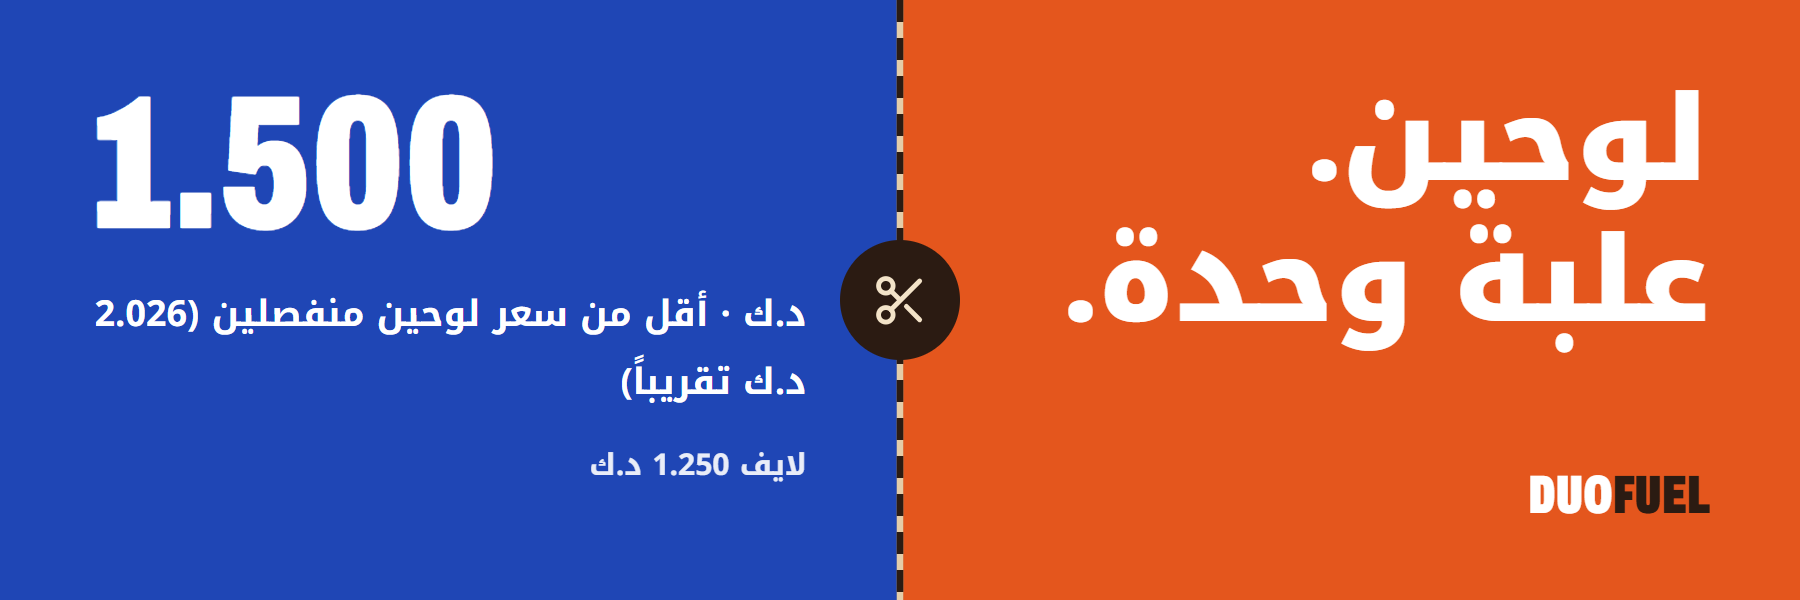
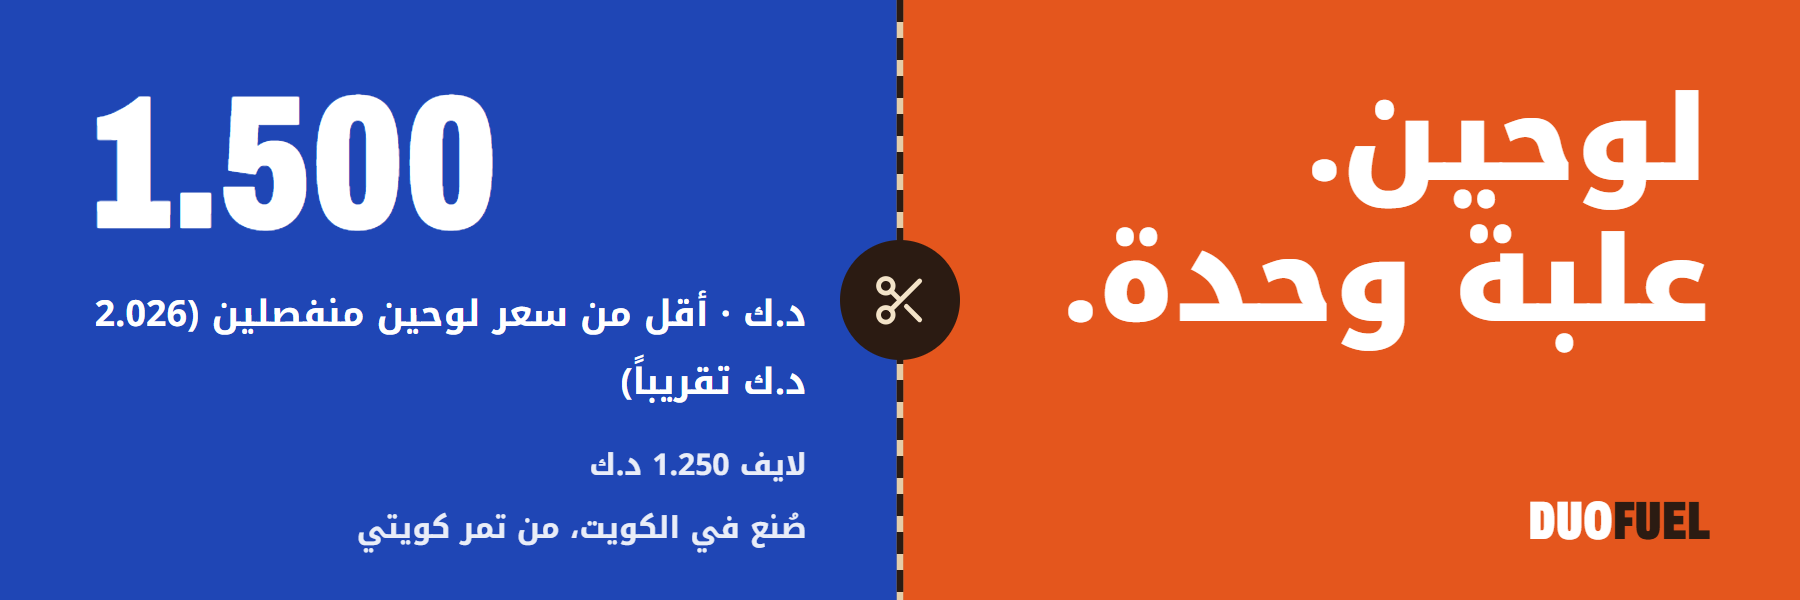
DUOFUEL concept: Made in Kuwait mark, FAQ and campaign updates

Changed region(s): [[0.84, 0.78, 0.9644, 0.9], [0.1867, 0.84, 0.4667, 0.93]]

diff --git a/work/duofuel/index.html b/work/duofuel/index.html
@@ -121,6 +121,7 @@
         </div>
 
         <div class="hero-foot">
+          <p class="made-kw"><span class="kw-flag" aria-hidden="true"><i></i><i></i><i></i></span><span data-i18n="made.kw">Made in Kuwait, with Kuwaiti dates</span></p>
           <p class="hero-lede" data-i18n="hero.lede">One wrapper, two sealed bars. Eat the orange one before and keep the blue one for after.</p>
           <div class="hero-actions">
             <a class="btn btn-ink" href="#order"><span class="v-gym" data-i18n="cta.orderGym">Order Gym · KWD 1.500</span><span class="v-life" data-i18n="cta.orderLife">Order Life · KWD 1.250</span></a>
@@ -246,6 +247,7 @@
           <ul class="promises">
             <li><svg class="icon" aria-hidden="true"><use href="#i-leaf"/></svg><div><h3 data-i18n="dates.p1">Rescued dates</h3><p data-i18n="dates.p1t">We report the kilograms of surplus dates used per 1,000 packs.</p></div></li>
             <li><svg class="icon" aria-hidden="true"><use href="#i-scale"/></svg><div><h3 data-i18n="dates.p2">One wrapper, no box</h3><p data-i18n="dates.p2t">We report the grams of packaging per pack, compared with two single bars.</p></div></li>
+            <li><svg class="icon" aria-hidden="true"><use href="#i-store"/></svg><div><h3 data-i18n="dates.p4">Made in Kuwait</h3><p data-i18n="dates.p4t">Mixed, baked and packed by a licensed food maker in Kuwait. The dates are Kuwaiti; whey and cocoa are imported, so we never say “100% Kuwaiti”.</p></div></li>
             <li><svg class="icon" aria-hidden="true"><use href="#i-qr"/></svg><div><h3 data-i18n="dates.p3">Proof on every pack</h3><p data-i18n="dates.p3t">The QR code shows the batch, where the dates came from and the packaging weight.</p></div></li>
           </ul>
           <p class="facts-strip"><span><strong>102,213 t</strong> <span data-i18n="dates.f1">dates grown in Kuwait in 2024</span></span><span><strong>98.6 kg</strong> <span data-i18n="dates.f2">household food waste per person a year in Kuwait</span></span></p>
@@ -367,6 +369,7 @@
           <details><summary data-i18n="faq.q3">Does creatine work better after training?</summary><p data-i18n="faq.a3">We don't claim that. Taking it every day matters more than the hour. It sits in POST because that is when most people already have their protein.</p></details>
           <details><summary data-i18n="faq.q4">Why a paper wrapper?</summary><p data-i18n="faq.a4">One wrapper with two sealed compartments uses less material than two separately wrapped bars, and needs no box.</p></details>
           <details><summary data-i18n="faq.q6">I have an allergy. Can I eat DUOFUEL?</summary><p data-i18n="faq.a6">Not yet: both packs contain milk, oats (gluten) and almonds, and the label says so. Gluten-free, lactose-free and nut-free versions are planned for year 2–3.</p></details>
+          <details><summary data-i18n="faq.q7">Where is DUOFUEL made?</summary><p data-i18n="faq.a7">In Kuwait, by a licensed food manufacturer working to our recipe. The dates come from Kuwaiti farms; the whey protein and cocoa are imported.</p></details>
           <details><summary data-i18n="faq.q5">Are surplus dates lower quality?</summary><p data-i18n="faq.a5">Only in looks. They pass the same food-safety tests as any date we use; they were just too small or marked for the fruit shelf.</p></details>
         </div>
       </div>
@@ -378,6 +381,7 @@
       <div>
         <p class="wordmark wordmark-lg" aria-hidden="true"><span class="wm-duo">DUO</span><span class="wm-fuel">FUEL</span></p>
         <p class="footer-sign" data-i18n="foot.sign">Two stages. One goal.</p>
+        <p class="footer-sign" data-i18n="made.kw">Made in Kuwait, with Kuwaiti dates</p>
       </div>
       <div class="footer-meta">
         <p class="disclaimer" data-i18n="foot.demo">DUOFUEL is a concept product created for a university marketing project. It is not on sale: prices, batches and orders on this page are for demonstration only.</p>

diff --git a/work/duofuel/campaign/index.html b/work/duofuel/campaign/index.html
@@ -134,6 +134,8 @@
     .ab-shelf .knob { position: absolute; left: calc(50% - 60px); top: calc(50% - 60px); background: var(--ink); color: var(--paper); z-index: 2; }
     .ab-shelf .wmtag { position: absolute; inset-inline-start: 90px; bottom: 54px; font-size: 54px; }
     .ab-shelf .wmtag .wm b { color: var(--ink); }
+    .ab-poster .made { margin: 12px 0 0; font-size: 30px; font-weight: 700; color: var(--ink-2); }
+    .ab-shelf .r .sub + .sub { margin-top: 6px; }
     /* fit fixes after the first export */
     .ab-ig-gym .cond { font-size: 196px; }
     html[lang="ar"] .ab-ig-gym .cond { font-size: 138px; line-height: 1.15; }
@@ -228,7 +230,7 @@
           <div class="h pre"><div class="cond">PRE</div><p data-ar="تمر + شوفان<br>قبل التمرين">Dates + oats<br>before you train</p></div>
           <div class="h post"><div class="cond">POST</div><p data-ar="بروتين<br>بعد التمرين">Protein<br>after you train</p></div>
         </div>
-        <div class="bottom"><span class="wm">DUO<b>FUEL</b></span><div class="prices"><div><span data-ar="جيم">Gym</span> <span class="price">KWD 1.500</span></div><div><span data-ar="لايف">Life</span> <span class="price">KWD 1.250</span></div></div></div>
+        <div class="bottom"><div><span class="wm">DUO<b>FUEL</b></span><p class="made" data-ar="صُنع في الكويت، من تمر كويتي">Made in Kuwait, with Kuwaiti dates</p></div><div class="prices"><div><span data-ar="جيم">Gym</span> <span class="price">KWD 1.500</span></div><div><span data-ar="لايف">Life</span> <span class="price">KWD 1.250</span></div></div></div>
       </div></div>
       <figcaption><span><strong data-ar="بوستر مكتب النادي">Gym desk poster</strong> A3</span><a href="png/poster-en.png" download data-dl="poster">PNG</a></figcaption>
     </figure>
@@ -237,7 +239,7 @@
       <div class="frame"><div class="ab ab-shelf" style="--w:1800;--h:600">
         <div class="side l"><div class="cond" data-ar="لوحين.<br>علبة وحدة.">Two bars.<br>One pack.</div><div class="wmtag"><span class="wm">DUO<b>FUEL</b></span></div></div>
         <div class="perf-v"></div>
-        <div class="side r"><div class="price">1.500</div><p data-ar="د.ك · أقل من سعر لوحين منفصلين (2.026 د.ك تقريباً)">KWD · less than two separate bars (about KWD 2.026)</p><p class="sub" data-ar="لايف 1.250 د.ك">Life KWD 1.250</p></div>
+        <div class="side r"><div class="price">1.500</div><p data-ar="د.ك · أقل من سعر لوحين منفصلين (2.026 د.ك تقريباً)">KWD · less than two separate bars (about KWD 2.026)</p><p class="sub" data-ar="لايف 1.250 د.ك">Life KWD 1.250</p><p class="sub" data-ar="صُنع في الكويت، من تمر كويتي">Made in Kuwait, with Kuwaiti dates</p></div>
         <span class="knob"><svg><use href="#sc"/></svg></span>
       </div></div>
       <figcaption><span><strong data-ar="بطاقة رف الجمعية">Co-op shelf card</strong> 1800 × 600</span><a href="png/shelf-en.png" download data-dl="shelf">PNG</a></figcaption>

diff --git a/work/duofuel/app.js b/work/duofuel/app.js
@@ -183,6 +183,11 @@
     'faq.q6': 'عندي حساسية. أقدر آكل DUOFUEL؟',
     'faq.a6': 'مو الحين: العلبتين فيها حليب وشوفان (جلوتين) ولوز، ومكتوب على الملصق. النسخ الخالية من الجلوتين واللاكتوز والمكسرات في خطة السنة الثانية والثالثة.',
     'foot.sign': 'مرحلتين. هدف واحد.',
+    'made.kw': 'صُنع في الكويت، من تمر كويتي',
+    'dates.p4': 'صُنع في الكويت',
+    'dates.p4t': 'يُخلط ويُخبز ويُغلّف عند مصنع أغذية مرخّص في الكويت. التمر كويتي، وبروتين مصل الحليب والكاكاو مستوردين، فما نقول «كويتي 100%».',
+    'faq.q7': 'وين ينصنع DUOFUEL؟',
+    'faq.a7': 'في الكويت، عند مصنع أغذية مرخّص يشتغل على وصفتنا. التمر من مزارع كويتية، وبروتين مصل الحليب والكاكاو مستوردين.',
     'foot.demo': 'DUOFUEL منتج تجريبي مصمم لمشروع تسويق جامعي، وغير معروض للبيع. الأسعار والدفعات والطلبات في هذي الصفحة للعرض فقط.',
     'foot.campaign': 'شوف حملة «لحظتين» التسويقية',
     'foot.credit': 'تصميم وتنفيذ',

diff --git a/work/duofuel/styles.css b/work/duofuel/styles.css
@@ -422,3 +422,12 @@ html[lang="ar"] .ff-name { font-family: var(--f-ar); font-size: 22px; }
 .ff-arrow::after { content: ""; position: absolute; inset-inline-end: 0; top: -4px; border: 5px solid transparent; border-inline-start: 7px solid var(--ink); border-inline-end: 0; }
 .ff-swap > span:last-child { color: var(--ink); font-weight: 700; }
 @media (min-width: 900px) { .next-grid { grid-template-columns: 1fr 1fr; gap: 72px; } }
+
+/* ---------- made in Kuwait mark ---------- */
+.made-kw { grid-column: 1 / -1; display: inline-flex; align-items: center; gap: 10px; justify-self: start; margin-top: -6px; font-weight: 800; font-size: 14.5px; }
+.kw-flag { position: relative; display: inline-grid; grid-template-rows: repeat(3, 1fr); width: 26px; height: 16px; border-radius: 2px; overflow: hidden; box-shadow: 0 0 0 1px rgba(43, 27, 18, .25); }
+.kw-flag i:nth-child(1) { background: #007a3d; }
+.kw-flag i:nth-child(2) { background: #fff; }
+.kw-flag i:nth-child(3) { background: #ce1126; }
+.kw-flag::before { content: ""; position: absolute; inset-inline-start: 0; top: 0; bottom: 0; width: 9px; background: #000; clip-path: polygon(0 0, 100% 33%, 100% 67%, 0 100%); }
+html[dir="rtl"] .kw-flag { direction: ltr; }
